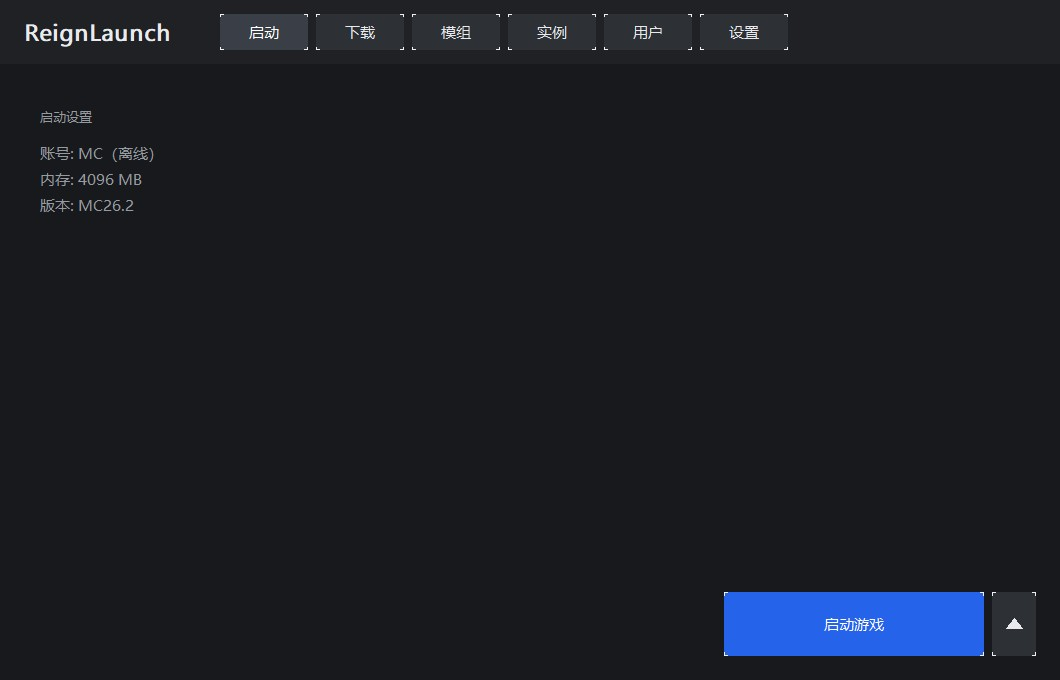
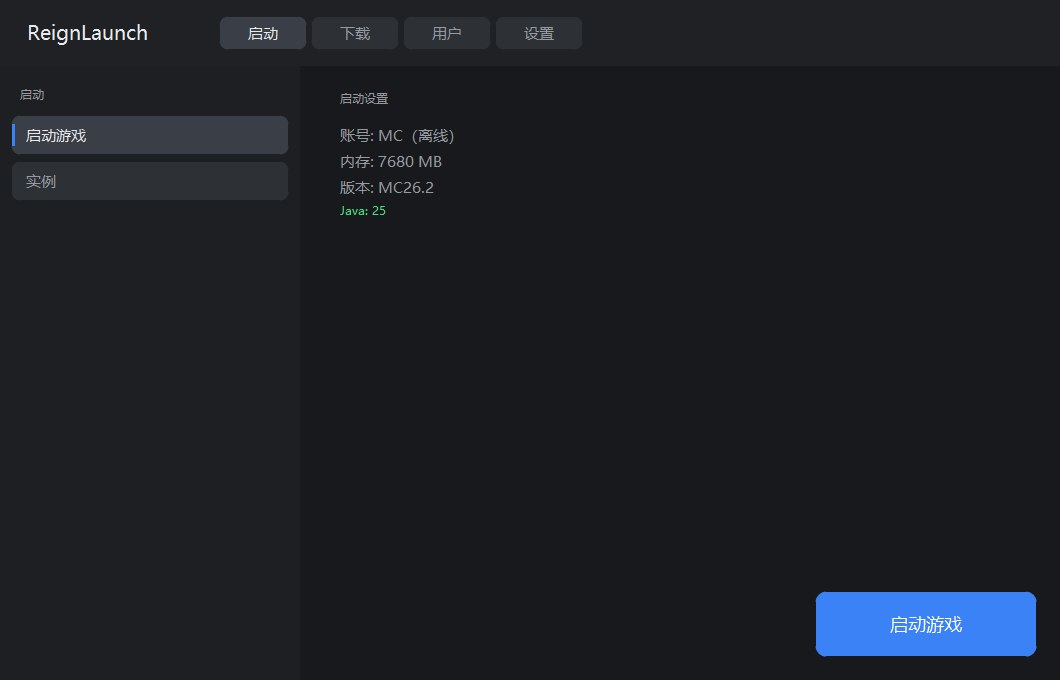
site: 1.3.0 RC 1 新截图 + 模组详情/关于页

diff --git a/index.html b/index.html
@@ -133,25 +133,29 @@
       <header class="section-head">
         <p class="eyebrow">SCREENSHOTS</p>
         <h2>界面长这样</h2>
-        <p class="sub">深色、克制、信息密度高。</p>
+        <p class="sub">深色、克制、信息密度高。1.3.0 RC 1 全新截图。</p>
       </header>
 
       <div class="shots">
         <figure class="shot">
           <img src="shots/ui_download.jpg" alt="版本下载列表" loading="lazy">
-          <figcaption><b>版本下载</b><span>分类下拉 + 搜索 + 日期类型一屏看完</span></figcaption>
+          <figcaption><b>版本下载</b><span>类型筛选 + 搜索，正式版 / 快照 / 远古一屏切换</span></figcaption>
         </figure>
         <figure class="shot">
           <img src="shots/ui_download_detail.jpg" alt="版本详情" loading="lazy">
-          <figcaption><b>版本详情</b><span>原版 / 四种加载器 / Fabric API / QSL</span></figcaption>
+          <figcaption><b>版本详情</b><span>原版 / 四种加载器 / Fabric API / QSL，版本自选</span></figcaption>
         </figure>
         <figure class="shot">
           <img src="shots/ui_download_mod.jpg" alt="模组下载" loading="lazy">
-          <figcaption><b>模组下载</b><span>按当前实例的版本与加载器自动过滤</span></figcaption>
+          <figcaption><b>模组下载</b><span>五大分类 + 真搜索框，按当前实例版本与加载器过滤</span></figcaption>
+        </figure>
+        <figure class="shot">
+          <img src="shots/ui_mod_detail.jpg" alt="模组详情" loading="lazy">
+          <figcaption><b>模组详情</b><span>简介、下载量，197 个版本随手挑</span></figcaption>
         </figure>
         <figure class="shot">
           <img src="shots/ui_instances.jpg" alt="实例管理" loading="lazy">
-          <figcaption><b>实例管理</b><span>版本列表与模组管理两个分区</span></figcaption>
+          <figcaption><b>实例管理</b><span>每个实例独立的版本隔离与模组目录</span></figcaption>
         </figure>
         <figure class="shot">
           <img src="shots/ui_user.jpg" alt="账户页" loading="lazy">
@@ -159,8 +163,13 @@
         </figure>
         <figure class="shot">
           <img src="shots/ui_settings.jpg" alt="设置页" loading="lazy">
-          <figcaption><b>设置</b><span>目录、Java、内存、线程、隔离策略</span></figcaption>
+          <figcaption><b>设置</b><span>11 项：目录、Java、内存、线程、额外参数、中转站</span></figcaption>
         </figure>
+        <figure class="shot">
+          <img src="shots/ui_about.jpg" alt="关于页" loading="lazy">
+          <figcaption><b>关于</b><span>版本信息、开源地址、检查更新</span></figcaption>
+        </figure>
+      </div>
       </div>
     </div>
   </section>
